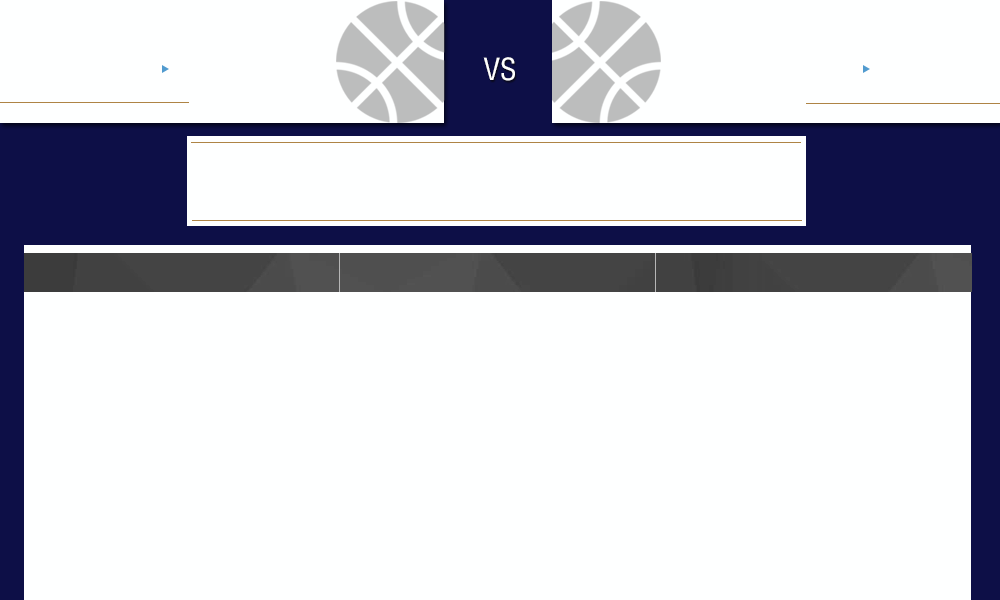
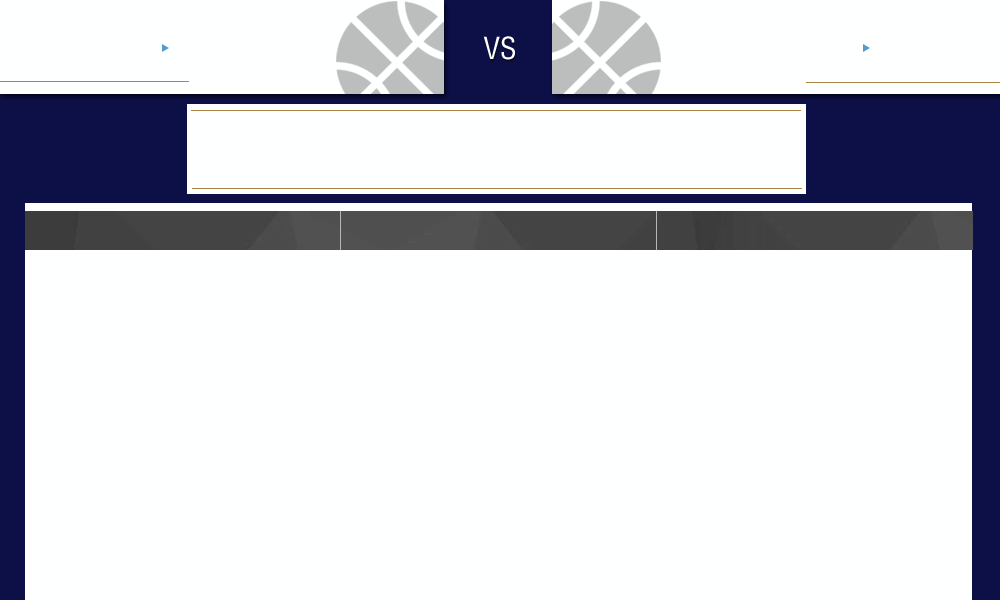
直播的图

Changed region(s): [[0.0, 0.3, 0.992, 0.51], [0.0, 0.06, 1.0, 0.24]]

diff --git a/Nbalabala/src/ui/panel/main/MainPanel.java b/Nbalabala/src/ui/panel/main/MainPanel.java
@@ -169,7 +169,7 @@ public class MainPanel extends Panel {
 		teamsDadaBtn.setFont(MyFont.YH_L);
 		this.add(teamsDadaBtn);
 		
-		hotBtn = new TabButton(Constants.hot, Images.HOME_BTN_ON, Images.HOME_BTN_CLICK);
+		hotBtn = new TabButton(Constants.hot, Images.HOME_BTN_R_ON, Images.HOME_BTN_R_CLICK);
 		hotBtn.addActionListener(new ActionListener() {
 			public void actionPerformed(ActionEvent e) {
 				MainController.toHotPanel();
@@ -179,7 +179,7 @@ public class MainPanel extends Panel {
 		hotBtn.setFont(MyFont.YH_L);
 		this.add(hotBtn);
 		
-		analysisBtn = new TabButton(Constants.analysis, Images.HOME_BTN_ON, Images.HOME_BTN_CLICK);
+		analysisBtn = new TabButton(Constants.analysis, Images.HOME_BTN_R_ON, Images.HOME_BTN_R_CLICK);
 		analysisBtn.addActionListener(new ActionListener() {
 			public void actionPerformed(ActionEvent e) {
 				// TODO

diff --git a/Nbalabala/src/ui/Images.java b/Nbalabala/src/ui/Images.java
@@ -66,4 +66,6 @@ public class Images {
 	public static final Image HOME_BG = new ImageIcon("images2.0/main/homeBG.png").getImage();
 	public static final Image HOME_BTN_ON = new ImageIcon("images2.0/main/buttonOn.png").getImage();
 	public static final Image HOME_BTN_CLICK = new ImageIcon("images2.0/main/buttonClick.png").getImage(); 
+	public static final Image HOME_BTN_R_ON = new ImageIcon("images2.0/main/rButtonOn.png").getImage();
+	public static final Image HOME_BTN_R_CLICK = new ImageIcon("images2.0/main/rButtonClick.png").getImage();
 }

diff --git a/Nbalabala/src/ui/common/button/TabButton.java b/Nbalabala/src/ui/common/button/TabButton.java
@@ -111,6 +111,7 @@ public class TabButton extends JButton{
 		}
 		public void mouseExited(MouseEvent e) {
 			isMouseOn = false;
+			isActive = true;
 			repaint();
 		}
 		public void mousePressed(MouseEvent e){
